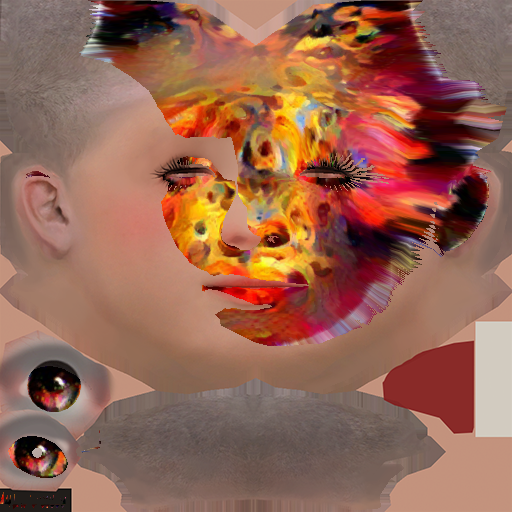
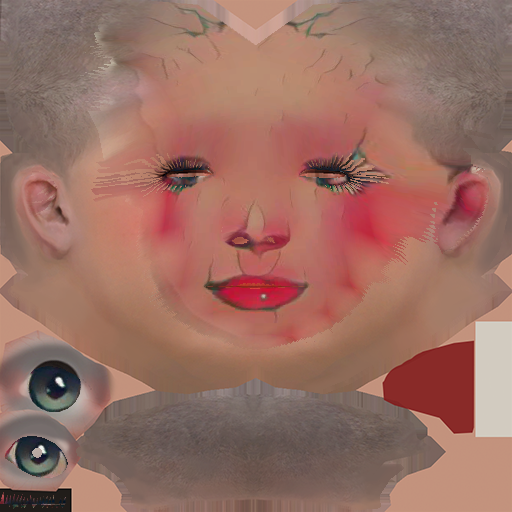
modify alpha of head synthesize

diff --git a/HeadShowcase/Assets/UVExport/Scripts/HeadSynthesize.cs b/HeadShowcase/Assets/UVExport/Scripts/HeadSynthesize.cs
@@ -57,6 +57,8 @@ public class HeadSynthesize : MonoBehaviour
             Material mat_before = HeadMesh.sharedMaterial;
             // first snapshot the depth 
             SnapshotDepth(cam);
+            // snapshot the mask
+            SnapshotMask(cam);
             // now let's do the synthesize
             DoSynthesize(cam);
             // save the result
@@ -75,15 +77,20 @@ public class HeadSynthesize : MonoBehaviour
     }
     private void SnapshotMask( Camera cam)
     {
-
+        cam.clearFlags = CameraClearFlags.SolidColor;
+        cam.backgroundColor = Color.black;
+        HeadMesh.sharedMaterial = MaskMaterial;
+        cam.targetTexture = MaskRT;
+        cam.Render();
     }
 
     private void DoSynthesize( Camera cam )
     {
         Graphics.Blit(MainTex, SynthesizeRT);
         Material runtime_mat = GameObject.Instantiate(SynthesizeMaterial);
-        runtime_mat.SetTexture("_StyleImage", StylizedImage);
-        runtime_mat.SetTexture("_DepthImage", DepthRT);
+        runtime_mat.SetTexture("_StyleTex", StylizedImage);
+        runtime_mat.SetTexture("_DepthTex", DepthRT);
+        runtime_mat.SetTexture("_MaskTex", MaskRT);
         HeadMesh.sharedMaterial = runtime_mat;
         // don't clear anything, I need the main tex color in Synthesize RenderTexture
         CameraClearFlags clear_flags = cam.clearFlags;
